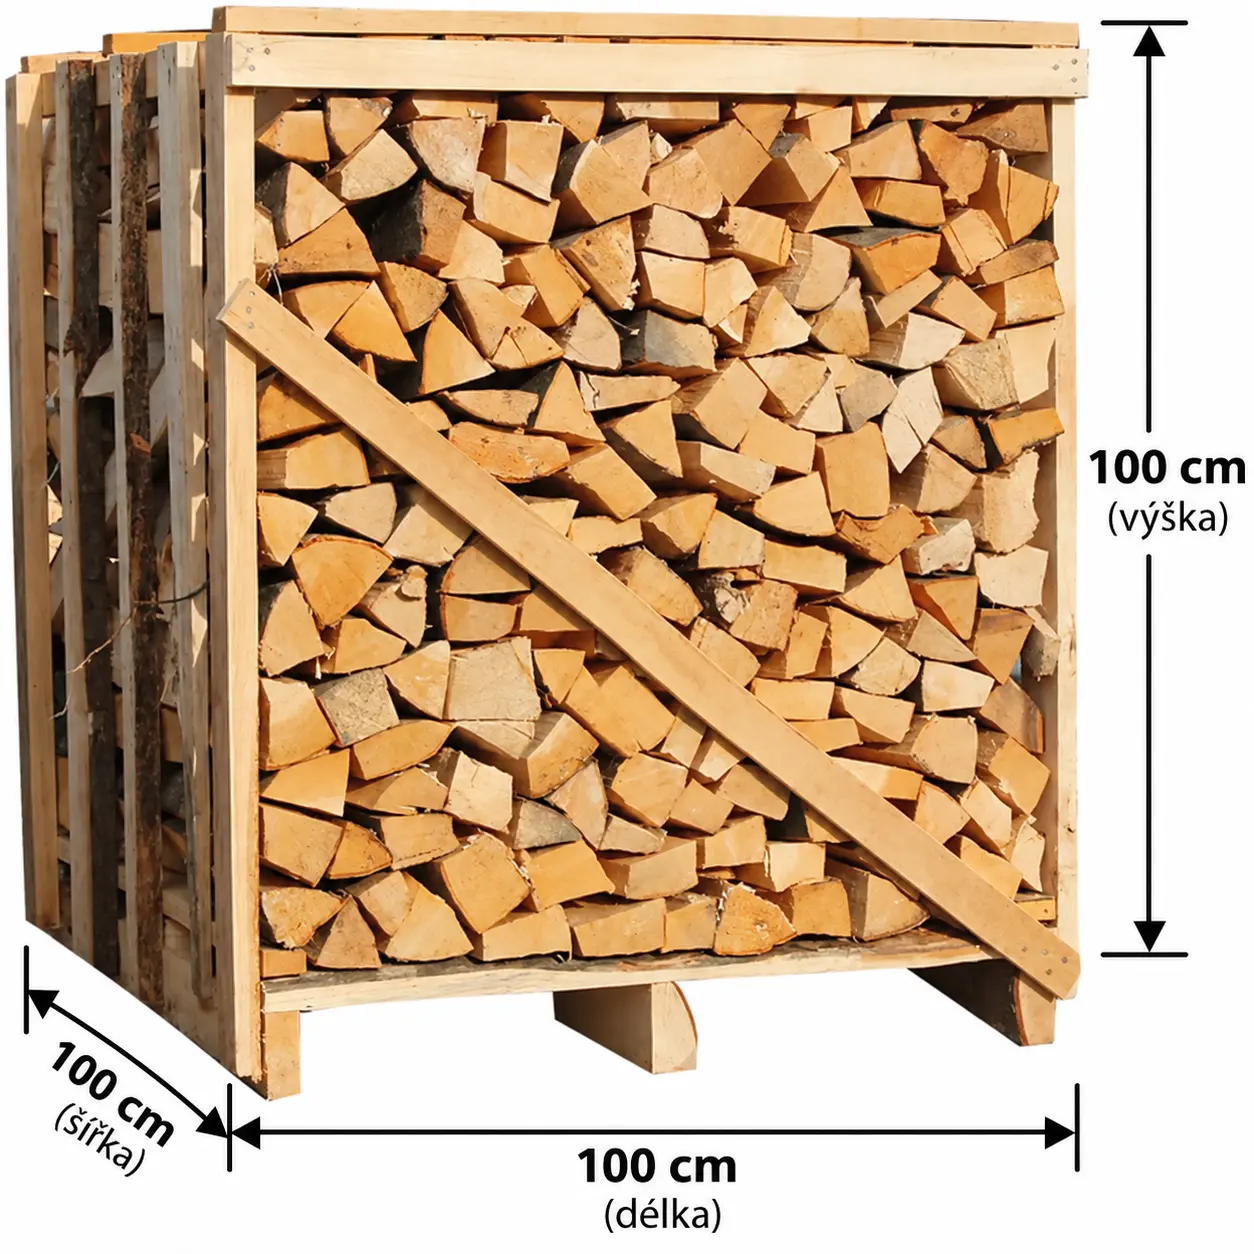
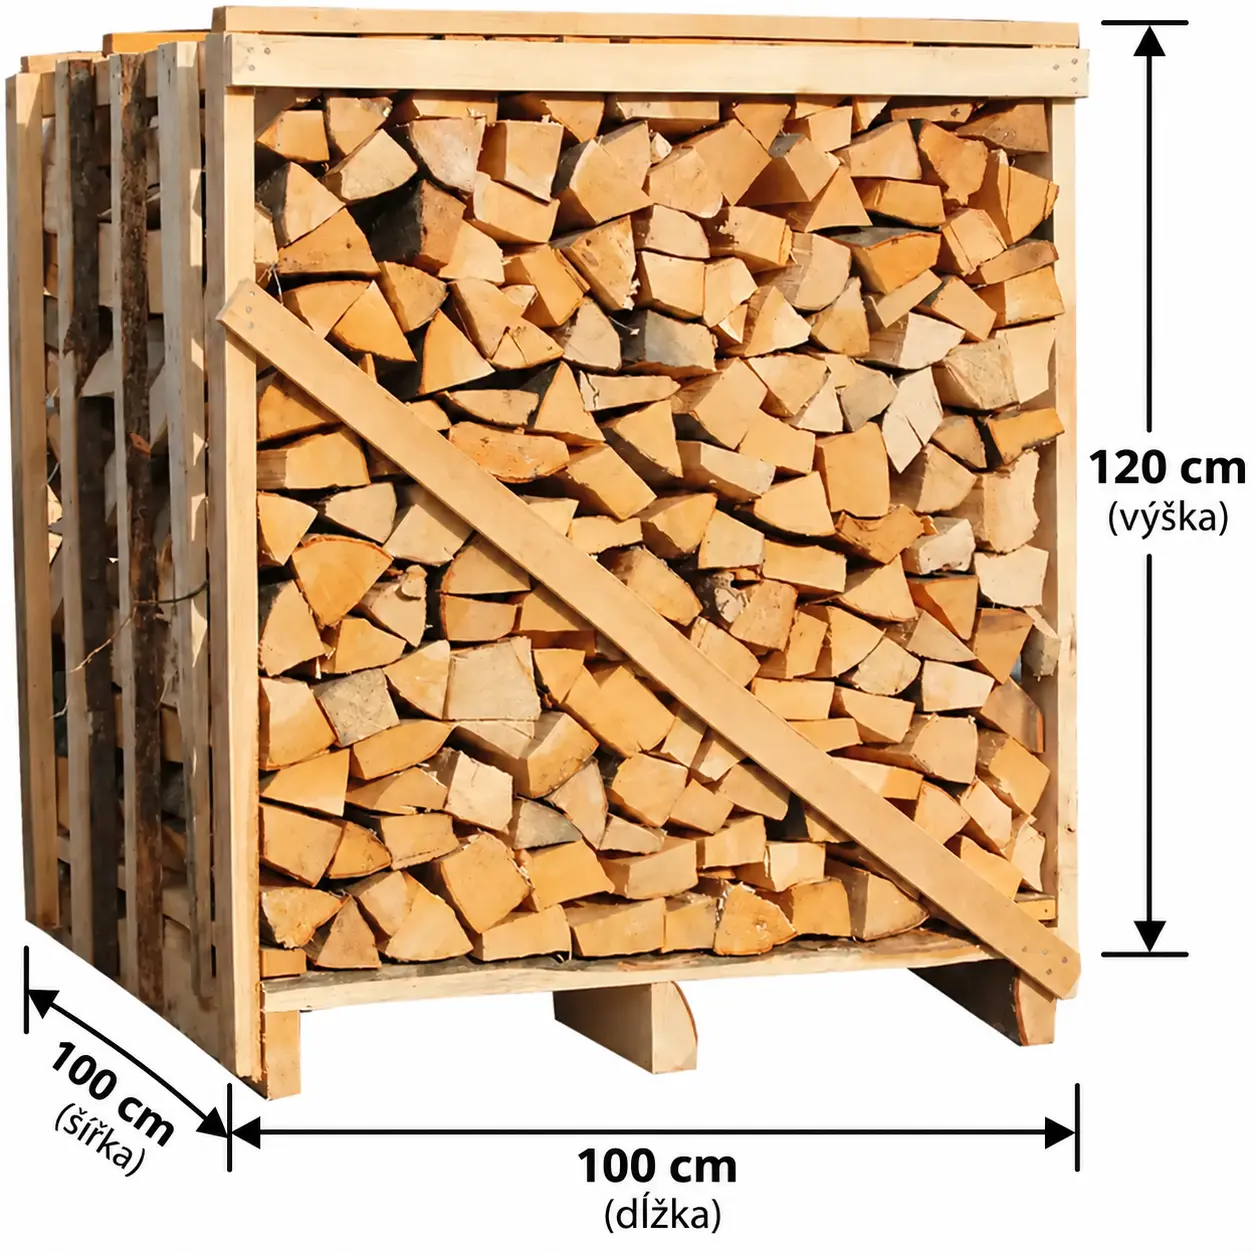
Updated metadata and images

diff --git a/nuxt.config.ts b/nuxt.config.ts
@@ -12,8 +12,8 @@ export default defineNuxtConfig({
       title: "Drevo Spiš",
       meta: [
         { name: "title", content: "Drevo Spiš" },
-        { name: "description", content: "" },
-        { name: "keywords", content: "drevo, drevo Spišská Nová Ves, drevo spiš, palivove drevo" }
+        { name: "description", content: "Kvalitné, suché palivové drevo zo Spiša za výhodné ceny. Ponúkame výhrevné drevo na paletách s možnosťou dovozu v Spišskej Novej Vsi a okolí. Objednajte ešte dnes!" },
+        { name: "keywords", content: "palivové drevo, drevo Spiš, palivové drevo Spišská Nová Ves, suché drevo, drevo na paletách, predaj dreva, dovoz dreva, Drevo Spiš" }
       ]
     }
   }
